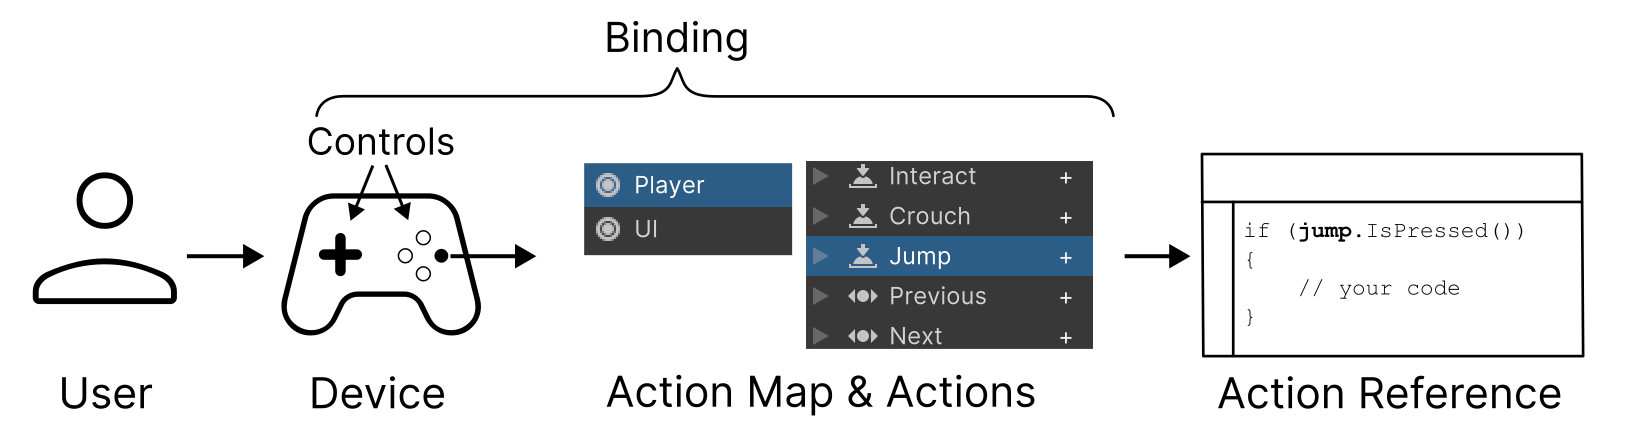
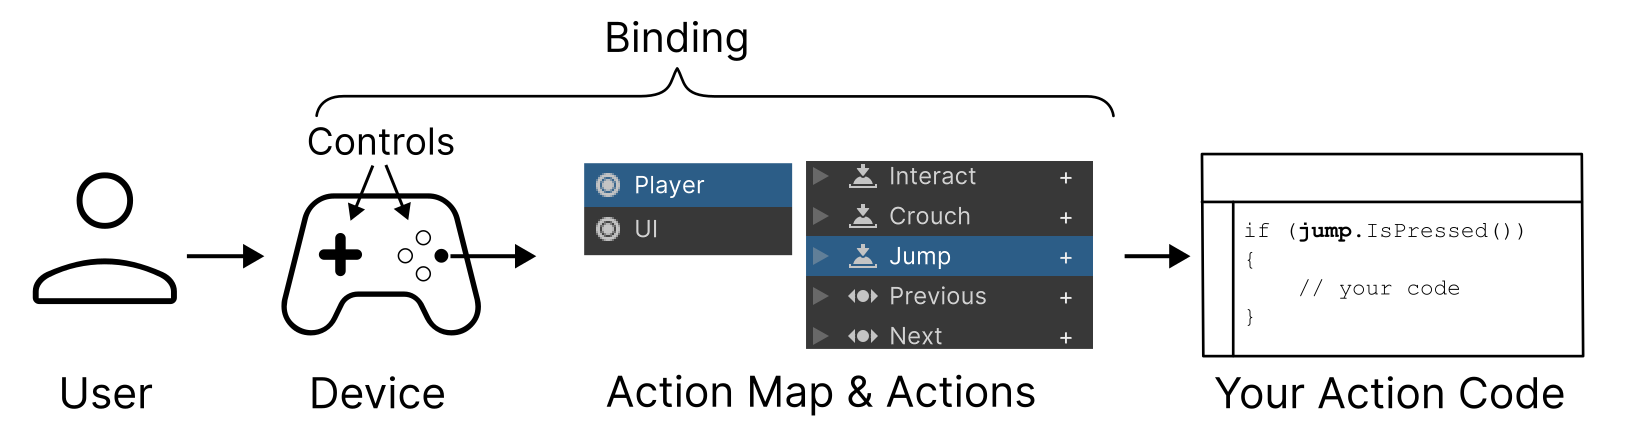
DOCF-3762 - renamed "action reference", added links to remaining concept titles

Changed region(s): [[0.7486, 0.8687, 0.967, 0.9585]]

diff --git a/Packages/com.unity.inputsystem/Documentation~/Concepts.md b/Packages/com.unity.inputsystem/Documentation~/Concepts.md
@@ -13,6 +13,6 @@ This page introduces the basic concepts that relate to working with the Input Sy
 |[**Input Device**](SupportedDevices.html)| Often referred to just as a "**device**" within the context of input. A physical piece of hardware, such as a keyboard, gamepad, mouse, or touchscreen which allows the user to send input into Unity.|
 |[**Control**](Controls.html)|The separate individual parts of an input device which each send input values into Unity. For example, a gamepad’s **controls** comprise multiple buttons, sticks and triggers, and a mouse’s controls include the two X and Y sensors on the underside, and the various buttons and scroll wheels on the top side.|
 |[**Action**](Actions.html)| Actions are a high-level concept that describe individual things that a user might want to do in your game or app, such as "Jump" within a game, or "Select" in an on-screen UI. They are things a user can do in your game or app as a result of input, regardless of what device or control they use to perform it. Actions generally have conceptual names that you choose to suit your project, and should usually be verbs. For example "Run", "Jump" "Crouch", "Use", "Start", "Quit".|
-|**Action Map**| Action Maps allow you to organise Actions into groups which represent specific situations where a set of actions make sense together. You can simultaneously enable or disable all Actions in an action map, so it is useful to group Actions in Action Maps by the context in which they are relevant. For example, you might have one action map for controlling a player, and another for interacting with your game's UI.|
+|[**Action Map**](ActionsEditor.html#configure-action-maps) | Action Maps allow you to organise Actions into groups which represent specific situations where a set of actions make sense together. You can simultaneously enable or disable all Actions in an action map, so it is useful to group Actions in Action Maps by the context in which they are relevant. For example, you might have one action map for controlling a player, and another for interacting with your game's UI.|
 |[**Binding**](ActionBindings.html)| A connection defined between an **Action** and specific device controls. For example, your "Move" action might have bindings to the arrow keys and WSAD keys on the keyboard, and the left stick on a joypad, and the primary 2D axis on a VR controller. Multiple bindings like this means your game can accept cross-platform input. |
-|**Action Reference**| A reference in your script to an Input Action. Once you have a reference to an action, you can either read the current value or state of the action (also known as "polling"), or set up a callback to call your own method when actions are performed.|
+|[**Your Action Code**](RespondingToActions.md)| The part of your script which is executed based on the actions you have configured. In your code, you can use references to actions to either read the current value or state of the action (also known as "polling"), or set up a callback to call your own method when actions are performed.|
